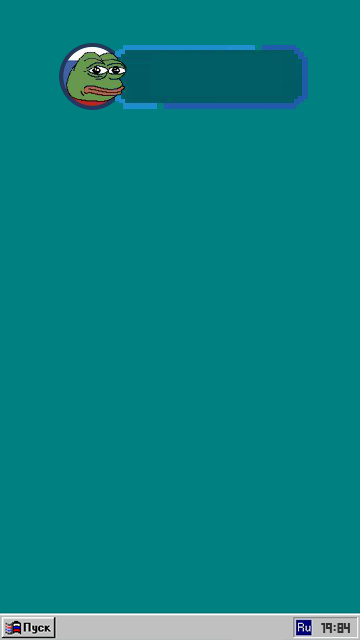
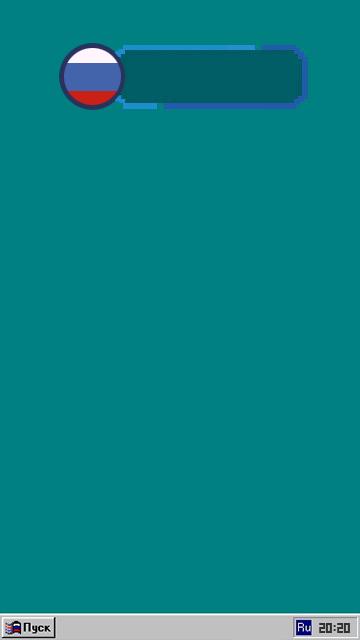
pepe laugh

Changed region(s): [[0.1833, 0.0625, 0.3667, 0.1875], [0.9472, 0.9688, 0.9778, 1.0], [0.8861, 0.9688, 0.9167, 1.0]]

diff --git a/src/Main.js b/src/Main.js
@@ -962,6 +962,18 @@ States.Main.prototype = {
         constructor(global) {
 
             this.global = global;
+
+            this.pepey = 100;
+            this.pepe = this.global.game.add.sprite(120,this.pepey,'main-pepe-laugh');
+
+
+
+            this.laugh = -1;
+            this.fff = false;
+
+            this.pepe.scale.setTo(2);
+
+
             this.back = this.global.game.add.sprite(0,0, 'main-bubble');
 
             this.back.anchor.setTo(0.5);
@@ -978,12 +990,37 @@ States.Main.prototype = {
             this.group.add(this.label);
 
             this.group.visible = false;
+
+
         }
 
+
+        update()
+        {
+
+            if (this.laugh>0)
+            {
+                this.laugh-=1/60;
+                this.pepe.y = this.pepey+Math.sin(this.laugh*18)*8;
+                this.pepe.frame = 1;
+            }
+            else
+            {
+
+                this.pepe.y = this.pepey;
+
+
+                if (this.fff)
+                    this.pepe.frame = 1;
+                else
+                    this.pepe.frame = 0;
+            }
+        }
 
         show() {
             this.group.visible = true;
             this.group.scale.setTo(0.1);
+
 
 
 
@@ -995,12 +1032,16 @@ States.Main.prototype = {
 
 
             tw1.onComplete.add(function () {
+                    this.laugh = 1;
+                    this.fff = true;
                     let tw2 = this.global.game.add.tween(this.group.scale)
                         .to({ x:1.9,y:1.9 },3000,Phaser.Easing.Quartic.Out);
                     tw2.onComplete.add(function () {
+                        this.fff = false;
                         let tw3 = this.global.game.add.tween(this.group.scale)
                             .to({ x:0.1,y:0.1 },300,Phaser.Easing.Back.In);
                             tw3.onComplete.add(function () {
+
                             this.group.visible = false;
                         },this)
                             tw3.start();
@@ -1399,6 +1440,7 @@ States.Main.prototype = {
 
             this.start_pressed+=1;
 
+            if (sound_on)
             this.button_clicker.snd[0].play();
 
             if (this.start_pressed>30)
@@ -1469,6 +1511,7 @@ States.Main.prototype = {
             this.boost_time = 1;
         }
 
+        this.bubble.update();
 
         
         this.score_text.text = ''+game_data.score;

diff --git a/src/Preloader.js b/src/Preloader.js
@@ -79,6 +79,7 @@ States.Preloader.prototype = {
 
         this.load.spritesheet('main-level','assets/main/button_level.png',72,72);
 
+        this.load.spritesheet('main-pepe-laugh','assets/main/pepe_laugh.png',64,64);
 
         this.load.image('main-shop','assets/main/shop.png');
 
